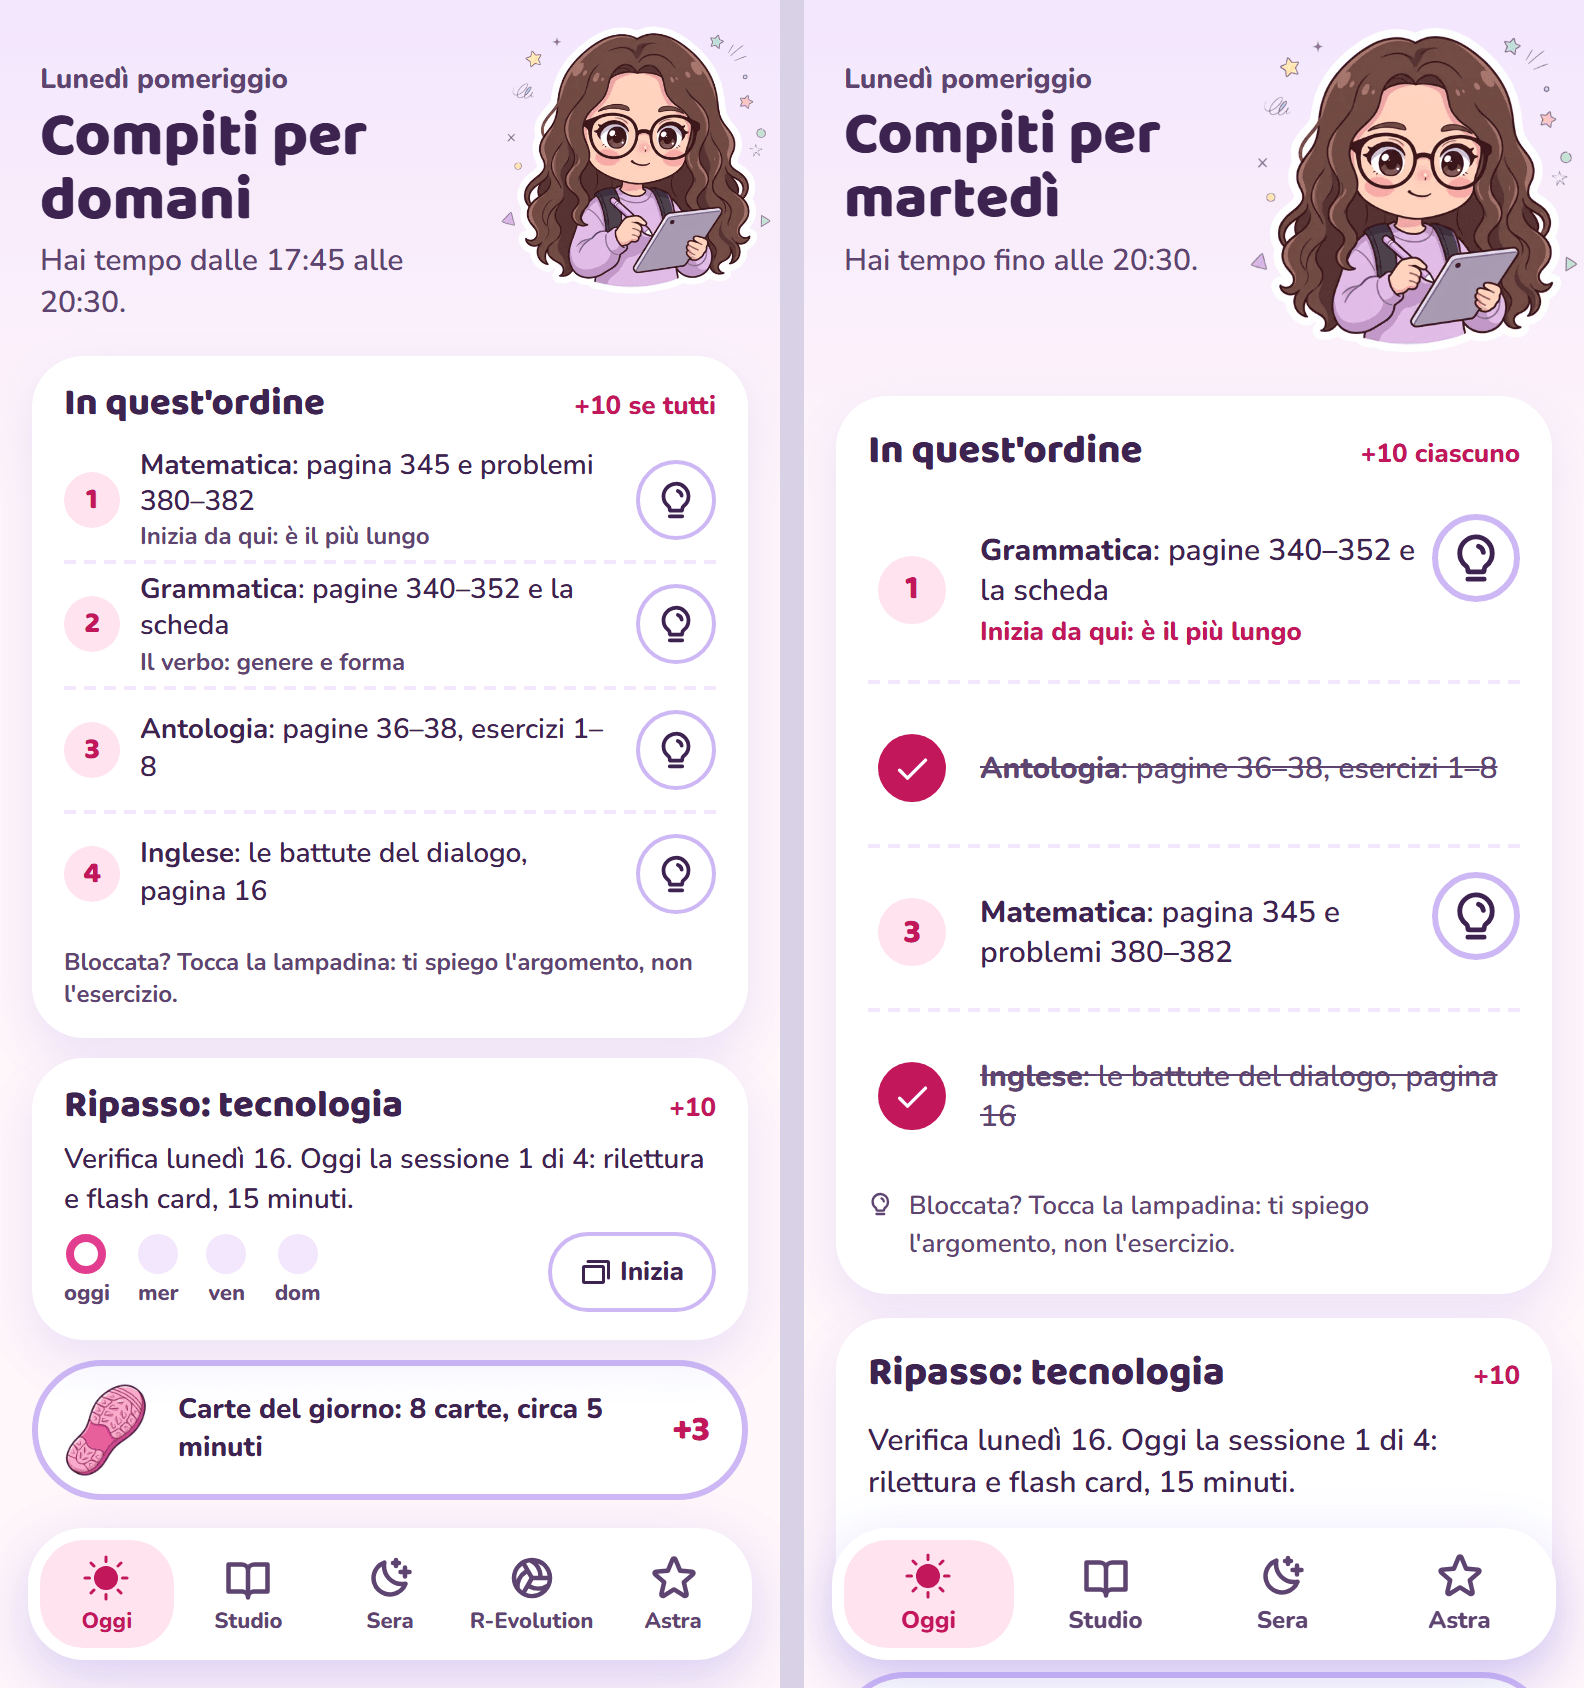
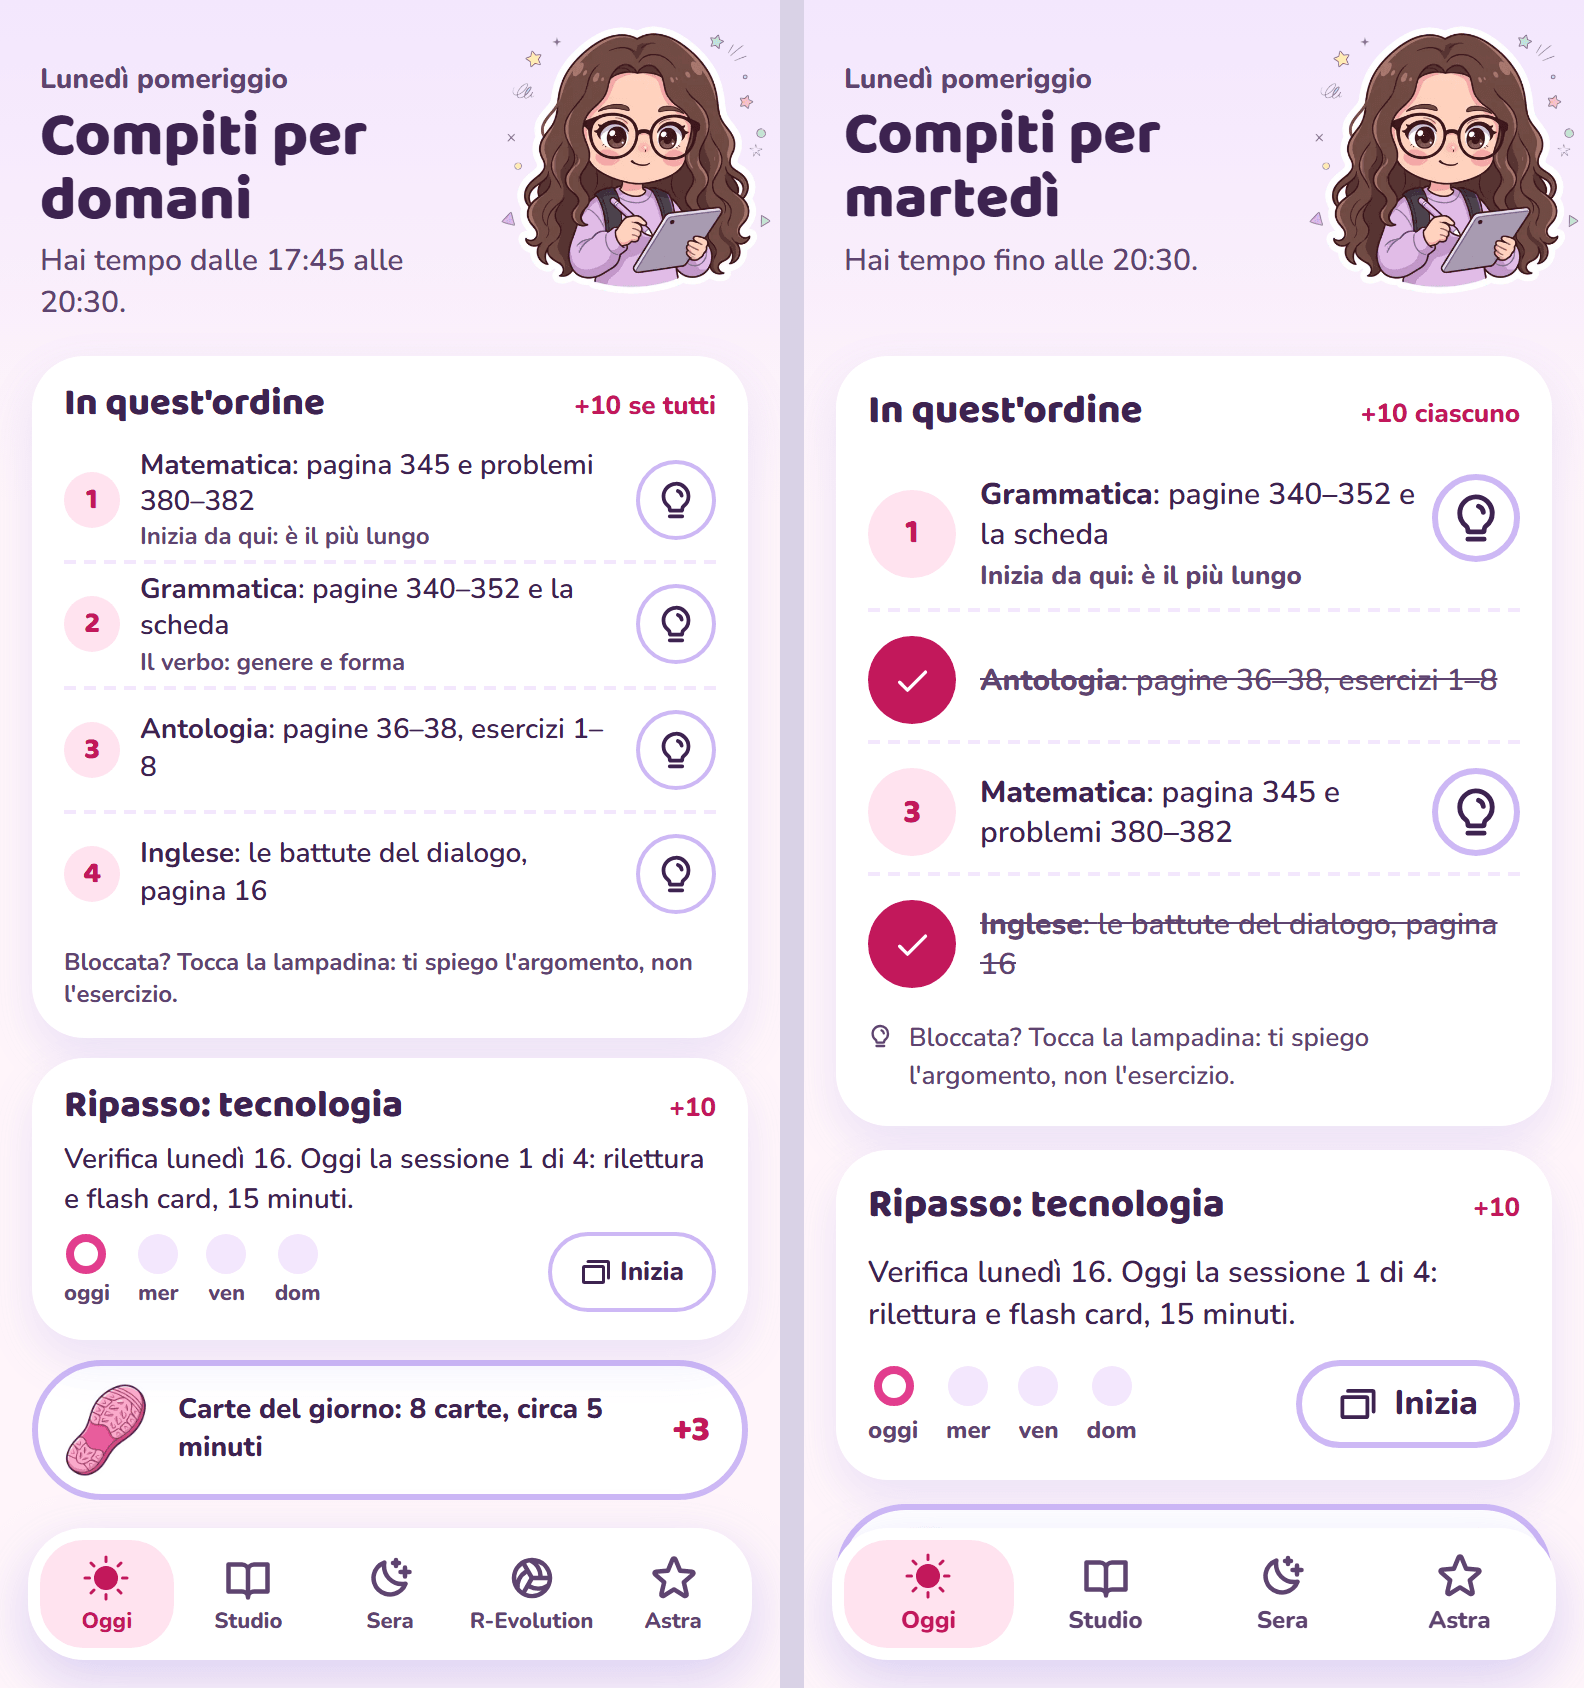
Revisione UI 7 (Pomeriggio): righe più basse, cerchi uguali
- numero e lampadina della stessa misura (44 px)
- righe dei compiti senza doppio margine e testata più bassa: ripasso
  e carte del giorno salgono sopra la piega
- 'Inizia da qui: è il più lungo' in prugna chiaro, non compete col
  compito

diff --git a/src/stile.css b/src/stile.css
@@ -504,3 +504,8 @@ dialog.velo:focus { outline: none; }
 /* Oggi: pillola di ieri col numero grande (bozza Oggi) */
 .pillola-oro .numero { margin-left: auto; padding-left: 8px; font: 800 24px/1 'Baloo 2', Nunito, sans-serif; color: var(--accento); white-space: nowrap; }
 .riga-chiavi .collegamento { align-self: flex-end; }
+/* Pomeriggio: testata più bassa (ripasso e carte salgono), cerchi della stessa misura, "Inizia da qui" più quieto */
+.pomeriggio .testata { min-height: 150px; }
+.bollino { width: 44px; height: 44px; margin: 0; }
+.nota-riga { color: var(--testo-2); }
+.ordine label { padding: 0; }

diff --git a/src/Oggi.tsx b/src/Oggi.tsx
@@ -234,10 +234,11 @@ function Pomeriggio({ chiusura, apri }: { chiusura: string | null; apri: Apri })
   const ver = ripasso?.verifiche;
 
   return (
-    <section className="schermo">
+    <section className="schermo pomeriggio">
       <Testata
         sfondo="pomeriggio"
         posa="lani-concentrata"
+        misura={140}
         sopra={`${maiuscola(GIORNI[oggi.getDay()])} pomeriggio`}
         titolo={`Compiti per ${GIORNI[domani.getDay()]}`}
         riga={chiusura && compiti.length > 0 ? <p>Hai tempo fino alle {chiusura}.</p> : undefined}
